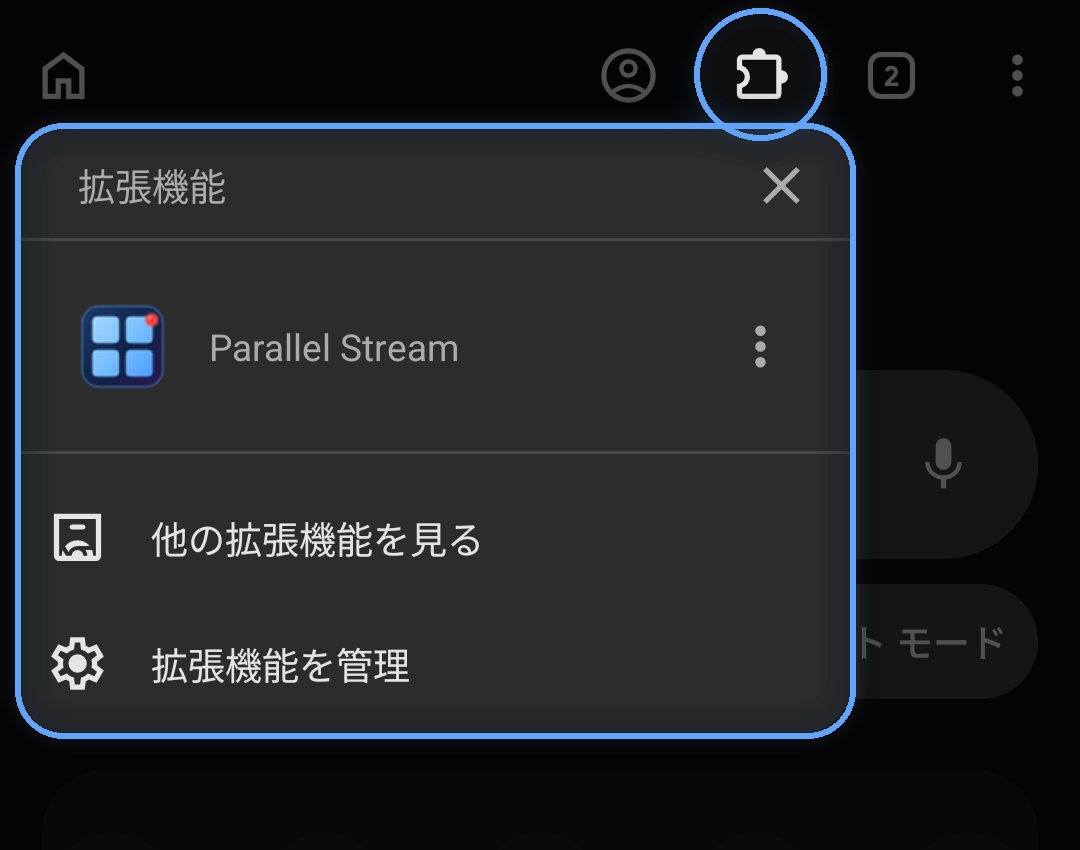
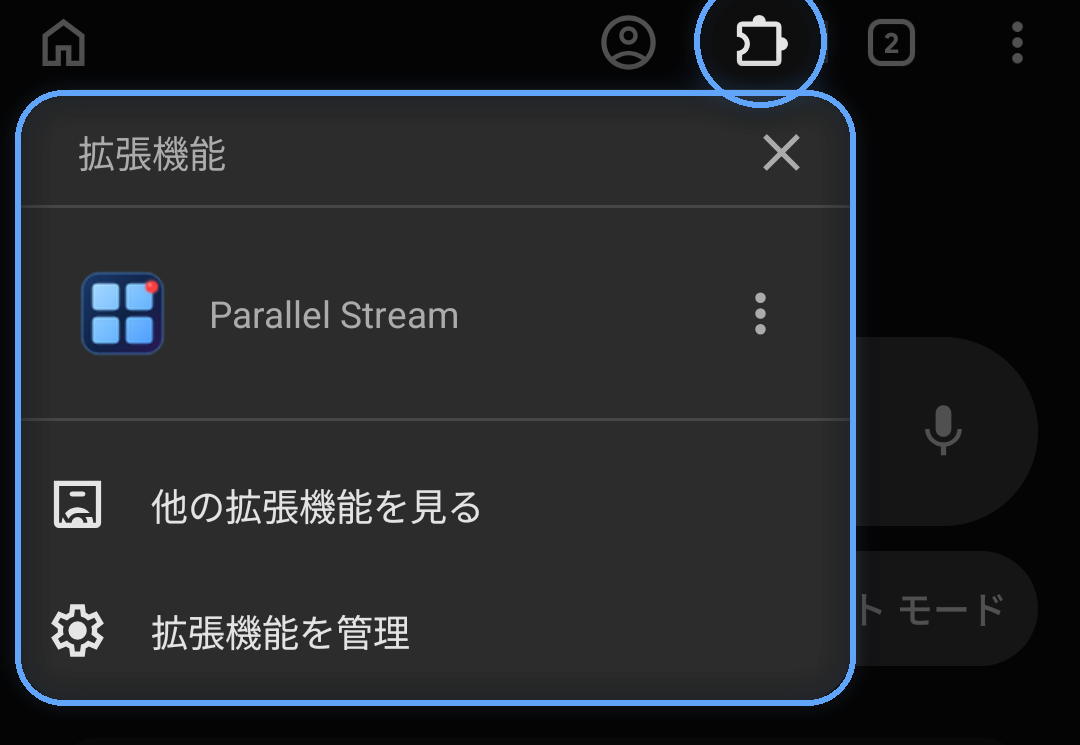
feat(timeline): 2025 年 1 月から並べ、日を押すとその日のログを出す
- アイコン・日付・列幅を大きくする
- 作業のあった日を押すと、その日のログのタイトルを吹き出しで出し、押すとログを開く
- Devlog は 1 日 1 件の短いログにする(タイトル 30 字以内、本文 40〜300 字、図は任意)
- npm run activity に --since を足す
- U2B Loop は Android のみにする。BEX のカード画像はメニューを上に寄せる

diff --git a/frontend/src/pages/TimelinePage.tsx b/frontend/src/pages/TimelinePage.tsx
@@ -18,16 +18,16 @@ import { categoryEmoji } from '@/data/mockProjects';
 import type { Project } from '../../../shared/src/types';
 import PageBackground from '@/components/PageBackground';
 
-// 今日から見て、過去と未来に何日ぶん並べるか。未来は予定を置くための余白
-const PAST_DAYS = 90;
+// 表の左端(実績を集め始めた日)。右は今日から FUTURE_DAYS 日先まで。未来は予定を置くための余白
+const START = '2025-01-01';
 const FUTURE_DAYS = 45;
 // 1 日の幅(px)。日付の数字と曜日が入る
-const CELL = 24;
-const LEFT_WIDTH = 176;
+const CELL = 34;
+const LEFT_WIDTH = 224;
 // 予定のバー 1 段と、実績の行の高さ
-const PLAN_LANE = 26;
-const ACTUAL_ROW = 30;
-const BAR_HEIGHT = 20;
+const PLAN_LANE = 32;
+const ACTUAL_ROW = 40;
+const BAR_HEIGHT = 24;
 // 作業の空きがこの日数までなら、ひと続きのバーにまとめる(土日を挟んでも切らない)
 const STREAK_MAX_GAP = 2;
 // 開いたとき、今日の列を表の幅のどのあたりに置くか(右に予定が見える位置)
@@ -58,12 +58,43 @@ const LATE_TAIL = 'repeating-linear-gradient(135deg, rgba(248,113,113,0.5) 0 4px
 const shortDate = (date: string) => `${Number(date.slice(5, 7))}/${Number(date.slice(8, 10))}`;
 const dayOfWeek = (date: string) => new Date(`${date}T00:00:00Z`).getUTCDay();
 
+/** 実績の日を押したときに出す吹き出し。どのアプリのどの日か、と出す位置(画面座標) */
+interface Pick {
+  project: Project;
+  date: string;
+  count: number;
+  logs: PostMeta[];
+  x: number;
+  y: number;
+}
+
 export default function TimelinePage() {
   const [projects, setProjects] = useState<Project[]>([]);
   const [activity, setActivity] = useState<Activity | null>(null);
   const [posts, setPosts] = useState<PostMeta[]>([]);
   const [loading, setLoading] = useState(true);
   const scrollRef = useRef<HTMLDivElement>(null);
+  const [pick, setPick] = useState<Pick | null>(null);
+
+  // 吹き出しは、外を押す・Esc・スクロールで閉じる
+  useEffect(() => {
+    if (!pick) return;
+    const close = () => setPick(null);
+    const onKey = (e: KeyboardEvent) => e.key === 'Escape' && close();
+    const onDown = (e: MouseEvent) => {
+      if (!(e.target as HTMLElement).closest('[data-popover]')) close();
+    };
+    window.addEventListener('keydown', onKey);
+    window.addEventListener('mousedown', onDown);
+    window.addEventListener('scroll', close, true);
+    window.addEventListener('resize', close);
+    return () => {
+      window.removeEventListener('keydown', onKey);
+      window.removeEventListener('mousedown', onDown);
+      window.removeEventListener('scroll', close, true);
+      window.removeEventListener('resize', close);
+    };
+  }, [pick]);
 
   useEffect(() => {
     // どれかが取れなくても、残りで出せるところまで出す
@@ -77,12 +108,12 @@ export default function TimelinePage() {
   }, []);
 
   const today = localToday();
-  const from = addDays(today, -PAST_DAYS);
+  const from = START;
   const to = addDays(today, FUTURE_DAYS);
   const dates = useMemo(() => dateRange(from, to), [from, to]);
   const lastIndex = dates.length - 1;
   const gridWidth = dates.length * CELL;
-  const todayIndex = PAST_DAYS;
+  const todayIndex = dayDiff(from, today);
 
   /** 期間 [start, end] を、表の中の左端と幅(px)に直す。表の外なら null */
   function span(start: string, end: string): { left: number; width: number } | null {
@@ -114,8 +145,10 @@ export default function TimelinePage() {
           own.map((g) => ({ start: g.start, end: [g.due, g.done ?? (today > g.due ? today : g.due)].sort().at(-1)! })),
         );
         const logs = posts.filter((post) => post.projects.includes(project.id));
+        const logsByDate = new Map<string, PostMeta[]>();
+        for (const log of logs) logsByDate.set(log.date, [...(logsByDate.get(log.date) ?? []), log]);
         const last = Object.keys(days).sort().at(-1) ?? '';
-        return { project, days, goals: own, lanes, laneCount: Math.max(1, ...lanes.map((l) => l + 1)), logs, last };
+        return { project, days, goals: own, lanes, laneCount: Math.max(1, ...lanes.map((l) => l + 1)), logs, logsByDate, last };
       })
       // 目標のあるアプリ、次に最近動いたアプリを上に
       .sort((a, b) => b.goals.length - a.goals.length || b.last.localeCompare(a.last) || a.project.title.localeCompare(b.project.title));
@@ -156,11 +189,15 @@ export default function TimelinePage() {
                       {months.map((month) => (
                         <div
                           key={month.key}
-                          className="shrink-0 overflow-hidden whitespace-nowrap border-l border-white/25 py-1.5 pl-2 text-xs font-semibold text-white/75 first:border-l-0"
+                          className="shrink-0 whitespace-nowrap border-l border-white/25 py-2 pl-2.5 text-sm font-semibold text-white/80 first:border-l-0"
                           style={{ width: month.days * CELL }}
                         >
-                          {/* 月の端で幅が足りないときは、年を省いても入らないので出さない */}
-                          {month.days >= 4 ? month.label : ''}
+                          {/* 月の頭が左の列に隠れても、月の名前は見えるところに留める */}
+                          {month.days >= 3 && (
+                            <span className="sticky inline-block" style={{ left: LEFT_WIDTH + 10 }}>
+                              {month.label}
+                            </span>
+                          )}
                         </div>
                       ))}
                     </div>
@@ -172,11 +209,11 @@ export default function TimelinePage() {
                         return (
                           <div
                             key={date}
-                            className={`shrink-0 py-1 text-center text-[9px] leading-[1.35] ${tone} ${isToday ? 'rounded-sm bg-white font-bold' : ''}`}
+                            className={`shrink-0 py-1.5 text-center text-[11px] leading-[1.35] ${tone} ${isToday ? 'rounded-md bg-white font-bold' : ''}`}
                             style={{ width: CELL }}
                           >
                             <div>{WEEKDAYS[dow]}</div>
-                            <div className="text-[10px]">{Number(date.slice(8, 10))}</div>
+                            <div className="text-sm font-medium">{Number(date.slice(8, 10))}</div>
                           </div>
                         );
                       })}
@@ -202,7 +239,7 @@ export default function TimelinePage() {
                     })}
                   </div>
 
-                  {rows.map(({ project, days, goals, lanes, laneCount, logs }) => {
+                  {rows.map(({ project, days, goals, lanes, laneCount, logsByDate }) => {
                     const planHeight = laneCount * PLAN_LANE + 6;
                     return (
                       <div key={project.id} className="flex border-b border-white/[0.08] last:border-b-0">
@@ -213,16 +250,16 @@ export default function TimelinePage() {
                         >
                           <Link
                             to={`/apps/${project.id}`}
-                            className="flex min-w-0 flex-1 items-center gap-2 pl-4 pr-1 text-white/85 transition-colors hover:text-white"
+                            className="flex min-w-0 flex-1 items-center gap-3 pl-4 pr-1 text-white/85 transition-colors hover:text-white"
                           >
                             {project.icon ? (
-                              <img src={project.icon} alt="" className="h-7 w-7 shrink-0 rounded-md border border-white/10 object-cover" loading="lazy" />
+                              <img src={project.icon} alt="" className="h-11 w-11 shrink-0 rounded-[22%] object-cover" loading="lazy" />
                             ) : (
-                              <span className="shrink-0 text-lg">{categoryEmoji[project.category]}</span>
+                              <span className="shrink-0 text-3xl">{categoryEmoji[project.category]}</span>
                             )}
-                            <span className="truncate text-xs font-semibold">{project.title}</span>
+                            <span className="truncate text-sm font-semibold">{project.title}</span>
                           </Link>
-                          <div className="shrink-0 pr-2 text-right text-[10px] text-white/45">
+                          <div className="shrink-0 pr-2.5 text-right text-[11px] text-white/45">
                             <div className="flex items-center justify-end" style={{ height: planHeight }}>予定</div>
                             <div className="flex items-center justify-end" style={{ height: ACTUAL_ROW }}>実績</div>
                           </div>
@@ -290,34 +327,29 @@ export default function TimelinePage() {
                                   {Array.from({ length: bar.width / CELL }, (_, i) => {
                                     const date = dates[first + i];
                                     const count = days[date] ?? 0;
+                                    const dayLogs = logsByDate.get(date) ?? [];
+                                    if (count === 0 && dayLogs.length === 0) {
+                                      return <div key={date} title={title} className="shrink-0" style={{ width: CELL }} />;
+                                    }
+                                    // 作業のあった日は押せる。その日にやったことを吹き出しで出す
                                     return (
-                                      <div
+                                      <button
                                         key={date}
-                                        title={count > 0 ? `${shortDate(date)} ${count} コミット` : title}
-                                        className="shrink-0"
+                                        type="button"
+                                        aria-label={`${shortDate(date)} にやったこと`}
+                                        onClick={(e) => {
+                                          const rect = e.currentTarget.getBoundingClientRect();
+                                          setPick({ project, date, count, logs: dayLogs, x: rect.left + rect.width / 2, y: rect.bottom });
+                                        }}
+                                        className="relative flex shrink-0 items-center justify-center outline-none transition-[filter] hover:brightness-150 focus-visible:ring-2 focus-visible:ring-white/70"
                                         style={{ width: CELL, background: levelColor(count) }}
-                                      />
+                                      >
+                                        {/* ログのある日は白い点 */}
+                                        {dayLogs.length > 0 && <span className="h-2 w-2 rounded-full bg-white/90" />}
+                                      </button>
                                     );
                                   })}
                                 </div>
-                              );
-                            })}
-                            {/* ログのある日は白い点。押すとそのログを開く */}
-                            {logs.map((log) => {
-                              const at = span(log.date, log.date);
-                              return (
-                                at && (
-                                  <Link
-                                    key={log.slug}
-                                    to={`/devlog/${log.slug}`}
-                                    title={`${shortDate(log.date)} ログ: ${log.title}`}
-                                    aria-label={`${shortDate(log.date)} のログ: ${log.title}`}
-                                    className="absolute z-10 flex items-center justify-center"
-                                    style={{ left: at.left, width: CELL, top: 0, height: ACTUAL_ROW }}
-                                  >
-                                    <span className="h-2.5 w-2.5 rounded-full border-2 border-[#0b0c10] bg-white transition-transform hover:scale-150" />
-                                  </Link>
-                                )
                               );
                             })}
                           </div>
@@ -350,14 +382,60 @@ export default function TimelinePage() {
               </span>
               <span className="flex items-center gap-1.5">
                 <span className="inline-block h-2.5 w-2.5 rounded-full bg-white" />
-                ログ(押すと開く)
+                ログあり(日を押すと、その日にやったことが出る)
               </span>
               {activity.updatedAt && <span className="ml-auto text-white/35">実績は {shortDate(activity.updatedAt)} 時点</span>}
             </div>
 
+            {pick && <DayPopover pick={pick} />}
           </>
         )}
       </div>
+    </div>
+  );
+}
+
+const POPOVER_WIDTH = 300;
+
+/** 押した日の下に出す吹き出し。ログのタイトルを押すと、その日のログを開く */
+function DayPopover({ pick }: { pick: Pick }) {
+  // 画面の端からはみ出さないよう、左右を詰める
+  const left = Math.min(Math.max(12, pick.x - POPOVER_WIDTH / 2), window.innerWidth - POPOVER_WIDTH - 12);
+  const weekday = WEEKDAYS[dayOfWeek(pick.date)];
+  return (
+    <div
+      data-popover
+      role="dialog"
+      aria-label={`${pick.project.title} ${shortDate(pick.date)}`}
+      className="fixed z-50 rounded-xl border border-white/15 bg-[#12141a]/95 p-4 shadow-2xl backdrop-blur-md"
+      style={{ left, top: pick.y + 8, width: POPOVER_WIDTH }}
+    >
+      <div className="mb-3 flex items-center gap-2.5">
+        {pick.project.icon && <img src={pick.project.icon} alt="" className="h-7 w-7 rounded-[22%] object-cover" />}
+        <div className="min-w-0">
+          <div className="truncate text-sm font-semibold text-white/90">{pick.project.title}</div>
+          <div className="text-xs text-white/50">
+            {pick.date.slice(0, 4)}/{shortDate(pick.date)}({weekday}){pick.count > 0 && ` · ${pick.count} コミット`}
+          </div>
+        </div>
+      </div>
+      {pick.logs.length > 0 ? (
+        <ul className="space-y-1.5">
+          {pick.logs.map((log) => (
+            <li key={log.slug}>
+              <Link
+                to={`/devlog/${log.slug}`}
+                className="group flex items-center gap-2 rounded-lg border border-white/10 bg-white/[0.04] px-3 py-2.5 transition-colors hover:border-white/30 hover:bg-white/[0.08]"
+              >
+                <span className="min-w-0 flex-1 text-sm font-medium leading-snug text-white/90">{log.title}</span>
+                <span className="shrink-0 text-white/40 transition-colors group-hover:text-white/80">→</span>
+              </Link>
+            </li>
+          ))}
+        </ul>
+      ) : (
+        <p className="text-sm text-white/45">この日のログはまだありません</p>
+      )}
     </div>
   );
 }

diff --git a/frontend/src/pages/AppsPage.tsx b/frontend/src/pages/AppsPage.tsx
@@ -440,8 +440,8 @@ export default function AppsPage() {
                       <div
                         className={`pointer-events-none relative -mx-6 -mb-6 mt-4 overflow-hidden xl:-mx-8 xl:-mb-8 ${isLarge ? 'h-48 xl:h-64' : 'h-36 xl:h-48'}`}
                         style={{
-                          maskImage: 'linear-gradient(to bottom, transparent, black 70%)',
-                          WebkitMaskImage: 'linear-gradient(to bottom, transparent, black 70%)',
+                          maskImage: 'linear-gradient(to bottom, transparent, black 40%)',
+                          WebkitMaskImage: 'linear-gradient(to bottom, transparent, black 40%)',
                         }}
                       >
                         <img
